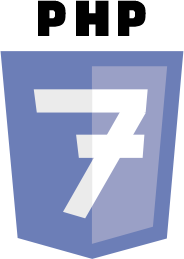
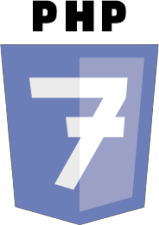
badges

diff --git a/resources/views/candidate/scoreDetails.blade.php b/resources/views/candidate/scoreDetails.blade.php
@@ -28,84 +28,113 @@
             </div>
           </div>
 
-      </div>
+        </div>
 
-      <div class="panel panel-info">
-        <div class="panel-heading">{{__('game.sololearn')}}</div>
-        <div class="panel-body">
+        <div class="panel panel-info">
+          <div class="panel-heading">{{__('game.sololearn')}}</div>
+          <div class="panel-body">
 
 
-          <div class="row">
-            <div class="col-md-3">
-              <b>{{__('game.html_score')}}  </b>
-            </div>
-            <div class="col-md-3">
-              {{$candidate->html_score}}
-            </div>
-            <div class="col-md-1">
-              {{ round($candidate->html_score/35*100) }}%
-            </div>
-            <div class="col-md-5">
-              <div class="progress">
-                <div class="progress-bar progress-bar-striped" role="progressbar" style="width: {{ round($candidate->html_score/35*100) }}%;" ></div>
+            <div class="row">
+              <div class="col-md-3">
+                <b>{{__('game.html_score')}}  </b>
               </div>
-            </div>
-
-            <div class="col-md-3">
-              <b>{{__('game.css_score')}}  </b>
-            </div>
-            <div class="col-md-3">
-              {{$candidate->css_score}}
-            </div>
-            <div class="col-md-1">
-              {{ round($candidate->css_score/35*100) }}%
-            </div>
-            <div class="col-md-5">
-              <div class="progress">
-                <div class="progress-bar progress-bar-striped" role="progressbar" style="width: {{ round($candidate->css_score/35*100) }}%;" ></div>
+              <div class="col-md-3">
+                {{$candidate->html_score}}
               </div>
-            </div>
-
-            <div class="col-md-3">
-              <b>{{__('game.js_score')}}  </b>
-            </div>
-            <div class="col-md-3">
-              {{$candidate->js_score}}
-            </div>
-            <div class="col-md-1">
-              {{ round($candidate->js_score/35*100) }}%
-            </div>
-            <div class="col-md-5">
-              <div class="progress">
-                <div class="progress-bar progress-bar-striped" role="progressbar" style="width: {{ round($candidate->js_score/35*100) }}%;" ></div>
+              <div class="col-md-1">
+                {{ round($candidate->html_score/35*100) }}%
               </div>
-            </div>
-
-            <div class="col-md-3">
-              <b>{{__('game.php_score')}}  </b>
-            </div>
-            <div class="col-md-3">
-              {{ $candidate->php_score }}
-            </div>
-            <div class="col-md-1">
-              {{ round($candidate->php_score/35*100) }}%
-            </div>
-            <div class="col-md-5">
-              <div class="progress">
-                <div class="progress-bar progress-bar-striped" role="progressbar" style="width: {{ round($candidate->php_score/35*100) }}%;" ></div>
+              <div class="col-md-5">
+                <div class="progress">
+                  <div class="progress-bar progress-bar-striped" role="progressbar" style="width: {{ round($candidate->html_score/35*100) }}%;" ></div>
+                </div>
               </div>
+
+              <div class="col-md-3">
+                <b>{{__('game.css_score')}}  </b>
+              </div>
+              <div class="col-md-3">
+                {{$candidate->css_score}}
+              </div>
+              <div class="col-md-1">
+                {{ round($candidate->css_score/35*100) }}%
+              </div>
+              <div class="col-md-5">
+                <div class="progress">
+                  <div class="progress-bar progress-bar-striped" role="progressbar" style="width: {{ round($candidate->css_score/35*100) }}%;" ></div>
+                </div>
+              </div>
+
+              <div class="col-md-3">
+                <b>{{__('game.js_score')}}  </b>
+              </div>
+              <div class="col-md-3">
+                {{$candidate->js_score}}
+              </div>
+              <div class="col-md-1">
+                {{ round($candidate->js_score/35*100) }}%
+              </div>
+              <div class="col-md-5">
+                <div class="progress">
+                  <div class="progress-bar progress-bar-striped" role="progressbar" style="width: {{ round($candidate->js_score/35*100) }}%;" ></div>
+                </div>
+              </div>
+
+              <div class="col-md-3">
+                <b>{{__('game.php_score')}}  </b>
+              </div>
+              <div class="col-md-3">
+                {{ $candidate->php_score }}
+              </div>
+              <div class="col-md-1">
+                {{ round($candidate->php_score/35*100) }}%
+              </div>
+              <div class="col-md-5">
+                <div class="progress">
+                  <div class="progress-bar progress-bar-striped" role="progressbar" style="width: {{ round($candidate->php_score/35*100) }}%;" ></div>
+                </div>
+              </div>
+
             </div>
+            <a href="{{ route('refreshSololearn') }}" class="btn">{{__('game.refresh_sololearn')}}</a>
 
           </div>
-          <a href="{{ route('refreshSololearn') }}" class="btn">{{__('game.refresh_sololearn')}}</a>
-
         </div>
-      </div>
 
         <div class="panel-heading">{{__('game.total')}} : {{ $candidate->score }}</div>
 
+      </div>
+
+
+      <div class="panel panel-info">
+        <div class="panel-heading">{{__('game.badges')}}</div>
+        <div class="panel-body">
+          <div class="row">
+            @if ($candidate->html_score >= 35)
+            <div class="col-md-4">
+              <img src="{{ asset('images/html.png') }}" alt="HTML Badge">
+            </div>
+            @endif
+              @if ($candidate->css_score >= 35)
+            <div class="col-md-4">
+              <img src="{{ asset('images/css.png') }}" alt="CSS Badge">
+            </div>
+            @endif
+              @if ($candidate->js_score >= 35)
+            <div class="col-md-4">
+              <img src="{{ asset('images/js.png') }}" alt="JS Badge">
+            </div>
+            @endif
+              @if ($candidate->php_score >= 35)
+            <div class="col-md-4">
+              <img src="{{ asset('images/php.png') }}" alt="PHP Badge">
+            </div>
+            @endif
+          </div>
+        </div>
+      </div>
     </div>
   </div>
-</div>
 
-@endsection
+  @endsection

diff --git a/resources/lang/fr/game.php b/resources/lang/fr/game.php
@@ -12,4 +12,5 @@ return [
   'total' => 'Total',
   'refresh_sololearn' => 'Rafraîchir votre profil Sololearn',
   'sololearn_refreshed' => 'Votre profil SoloLearn a été mis à jour',
+  'badges' => 'Badges',
 ];

diff --git a/resources/lang/en/game.php b/resources/lang/en/game.php
@@ -12,4 +12,5 @@ return [
   'total' => 'Total',
   'refresh_sololearn' => 'Refresh SoloLearn profile',
   'sololearn_refreshed' => 'Your SoloLearn profile has been refreshed',
+  'badges' => 'Badges',
 ];
